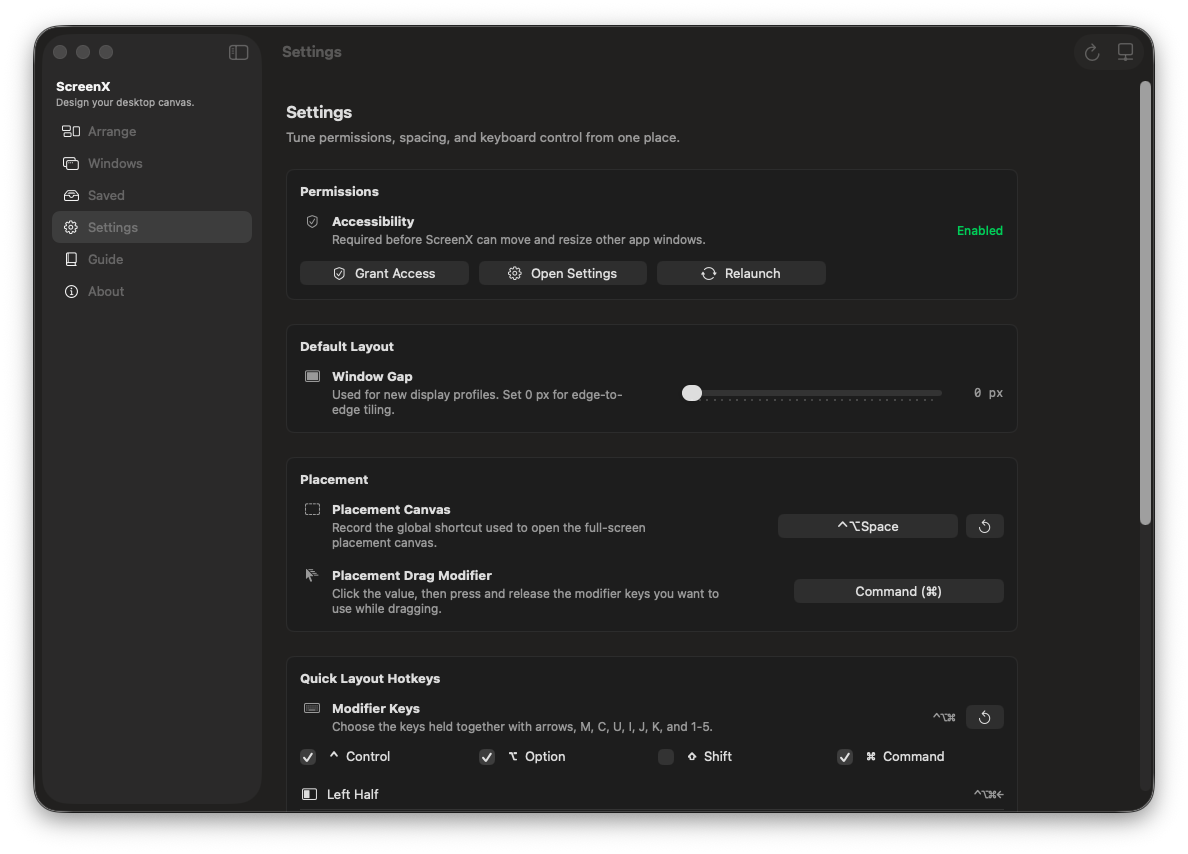
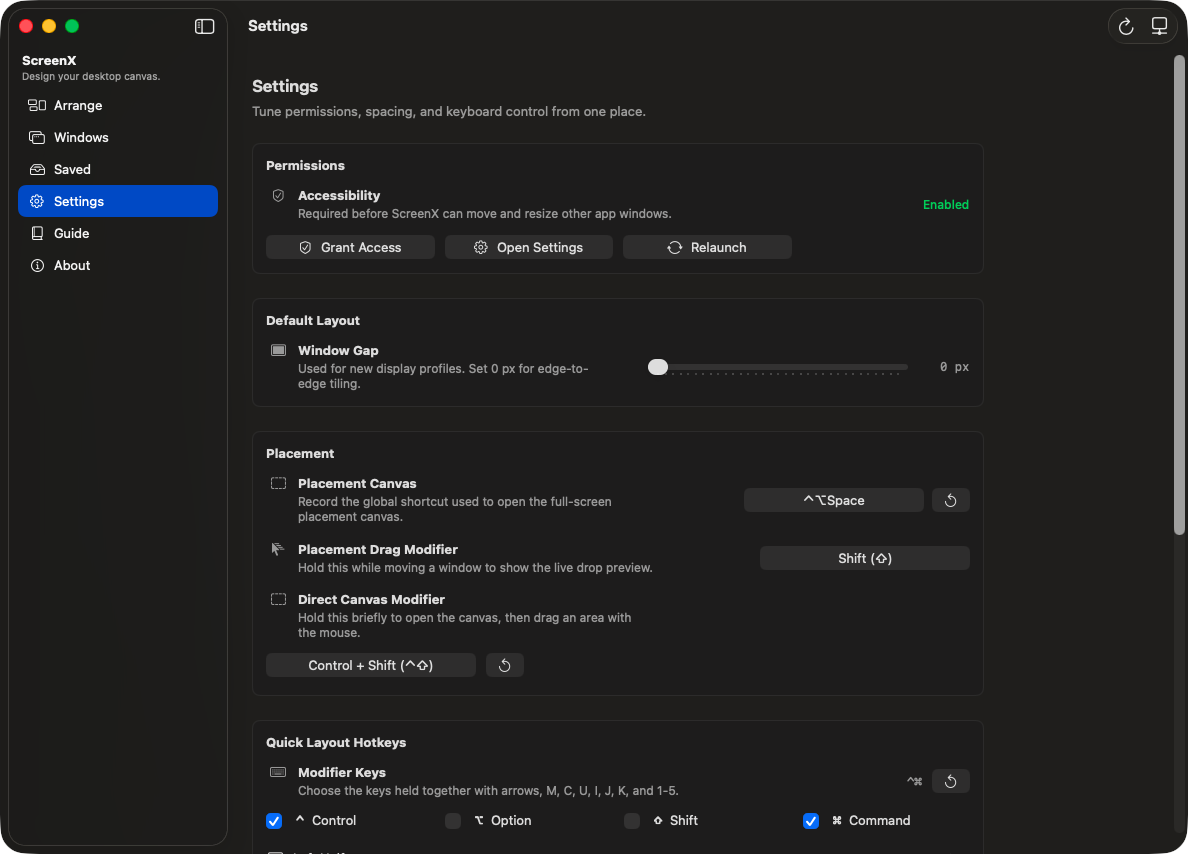
Publish ScreenX 1.0.3 release

diff --git a/app/page.tsx b/app/page.tsx
@@ -30,7 +30,7 @@ import {
 const featureCards = [
   {
     title: "Drag placement",
-    description: "Hold Command, drag a window, preview the target area, and release to place it.",
+    description: "Hold Shift, drag a window, preview the target area, and release to place it.",
     icon: MousePointer2,
     accent: "mint",
   },
@@ -56,7 +56,7 @@ const featureCards = [
 
 const heroBadges = [
   {
-    label: "Command-drag preview",
+    label: "Shift-drag preview",
     icon: MousePointer2,
   },
   {
@@ -83,8 +83,8 @@ const guideSteps = [
   },
   {
     title: "Choose a placement style",
-    description: "Use Command-drag for a live preview, open the canvas, or press a quick layout hotkey.",
-    icon: Command,
+    description: "Use Shift-drag for a live preview, open the canvas, or press a quick layout hotkey.",
+    icon: Keyboard,
   },
   {
     title: "Preview the space",
@@ -101,8 +101,8 @@ const guideSteps = [
 const hotkeyGuides = [
   {
     title: "Drag placement",
-    description: "Hold Command while dragging a window. A live preview appears, then ScreenX fits the window when you release.",
-    keys: ["Hold Command", "Drag window", "Release"],
+    description: "Hold Shift while dragging a window. A live preview appears, then ScreenX fits the window when you release.",
+    keys: ["Hold Shift", "Drag window", "Release"],
   },
   {
     title: "Placement Canvas",
@@ -112,7 +112,7 @@ const hotkeyGuides = [
   {
     title: "Quick layouts",
     description: "Move the active window instantly into halves, thirds, corners, center, or maximize.",
-    keys: ["Control", "Option", "Command", "Arrows / M C U I J K / 1-5"],
+    keys: ["Control", "Command", "Arrows / M C U I J K / 1-5"],
   },
 ];
 
@@ -145,7 +145,7 @@ const interfaceScreens = [
     title: "Settings",
     label: "Tune the controls",
     description: "Change the drag modifier, placement canvas shortcut, quick-layout modifiers, and default spacing.",
-    bestPractice: "Keep Command as the default drag modifier if Option conflicts with macOS, then customize shortcuts as your habits settle.",
+    bestPractice: "Keep Shift as the default drag modifier, use Control + Command for quick layouts, then customize shortcuts as your habits settle.",
     src: "/images/screens/screenx-settings.png",
     alt: "ScreenX Settings screen showing accessibility status, window gap, hotkey, and modifier options.",
   },
@@ -332,8 +332,8 @@ export default function Home() {
             </div>
           </div>
           <div className="stage-pill stage-pill-hotkey">
-            <Command size={17} />
-            Hold Command
+            <Keyboard size={17} />
+            Hold Shift
           </div>
           <div className="stage-pill stage-pill-grid">
             <Grid3X3 size={17} />
@@ -489,7 +489,7 @@ export default function Home() {
                       Edge fit
                     </span>
                     <span>
-                      <strong>Command</strong>
+                      <strong>Shift</strong>
                       Drag preview
                     </span>
                   </div>

diff --git a/src/lib/releases.ts b/src/lib/releases.ts
@@ -17,6 +17,27 @@ export type ScreenXRelease = {
 
 export const releases: ScreenXRelease[] = [
   {
+    version: "1.0.3",
+    build: "35",
+    date: "2026-07-03",
+    title: "ScreenX 1.0.3",
+    summary: "Simplifies quick layout access to Control + Command, preserves Settings customization, and includes the latest placement fixes for ScreenX's own window.",
+    minMacOS: "13.0",
+    fileName: "ScreenX-1.0.3.dmg",
+    fileSizeBytes: 3708495,
[1 lines of base64/hex data omitted]
+    notarized: true,
+    stapled: true,
+    downloadPath: "/releases/1.0.3/ScreenX-1.0.3.dmg",
+    releaseNotesPath: "/releases#version-1-0-3",
+    highlights: [
+      "Quick Layout defaults now use Control + Command instead of Control + Option + Command.",
+      "Settings still lets users choose their own quick layout modifier keys.",
+      "Direct canvas placement now targets ScreenX's own app window correctly.",
+      "Includes the latest signed, notarized, and stapled public DMG.",
+    ],
+  },
+  {
     version: "1.0.2",
     build: "5",
     date: "2026-07-03",

diff --git a/src/lib/seo.ts b/src/lib/seo.ts
@@ -5,7 +5,7 @@ export const siteURL = process.env.NEXT_PUBLIC_SITE_URL ?? "https://screenx.scru
 export const seoTitle = "ScreenX - Mac Window Manager with Drag Preview and Custom Grids";
 
 export const seoDescription =
-  "ScreenX is an open-source macOS window manager for Command-drag previews, quick layouts, per-screen grids, saved workspaces, and precise window snapping.";
+  "ScreenX is an open-source macOS window manager for Shift-drag previews, quick layouts, per-screen grids, saved workspaces, and precise window snapping.";
 
 export const seoKeywords = [
   "ScreenX",
@@ -15,7 +15,7 @@ export const seoKeywords = [
   "window tiling macOS",
   "macOS split screen",
   "Mac desktop organization",
-  "Command drag window layout",
+  "Shift drag window layout",
   "per-screen grids",
   "saved workspaces",
   "open source macOS app",
@@ -92,7 +92,7 @@ export function softwareApplicationJsonLd() {
     fileSize: `${(latestRelease.fileSizeBytes / 1_000_000).toFixed(1)} MB`,
     description: seoDescription,
     featureList: [
-      "Command-drag window placement with live preview",
+      "Shift-drag window placement with live preview",
       "Quick layout hotkeys for halves, thirds, quarters, center, maximize, and two-thirds layouts",
       "Per-screen rows, columns, and gap settings",
       "Saved workspaces for repeated desktop arrangements",

diff --git a/README.md b/README.md
@@ -37,7 +37,7 @@ site URL during local or preview deployments.
 
 ## Release Layout
 
-- Latest DMG: `public/releases/1.0.2/ScreenX-1.0.2.dmg`
+- Latest DMG: `public/releases/1.0.3/ScreenX-1.0.3.dmg`
 - Update feed: `/api/update`
 - Full release archive: `/api/releases`
 - Latest download redirect: `/download`